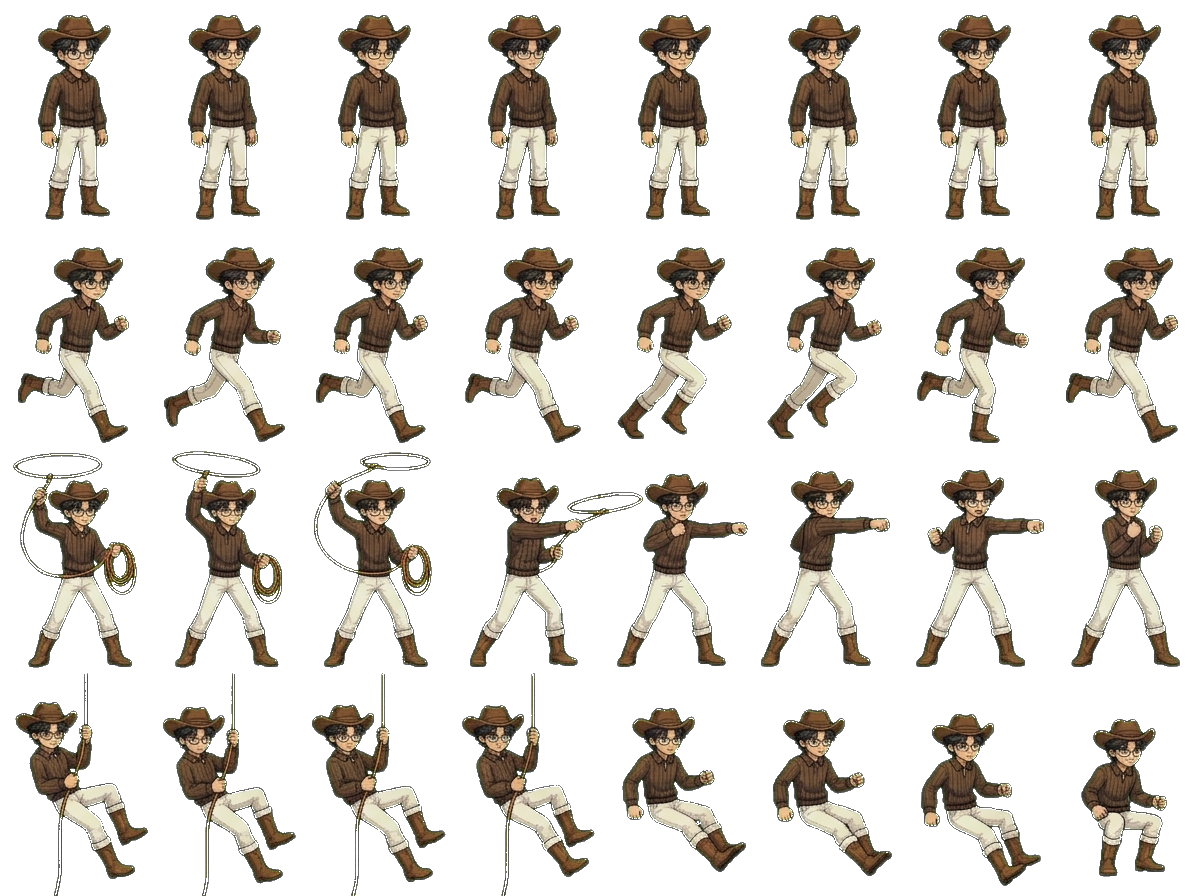
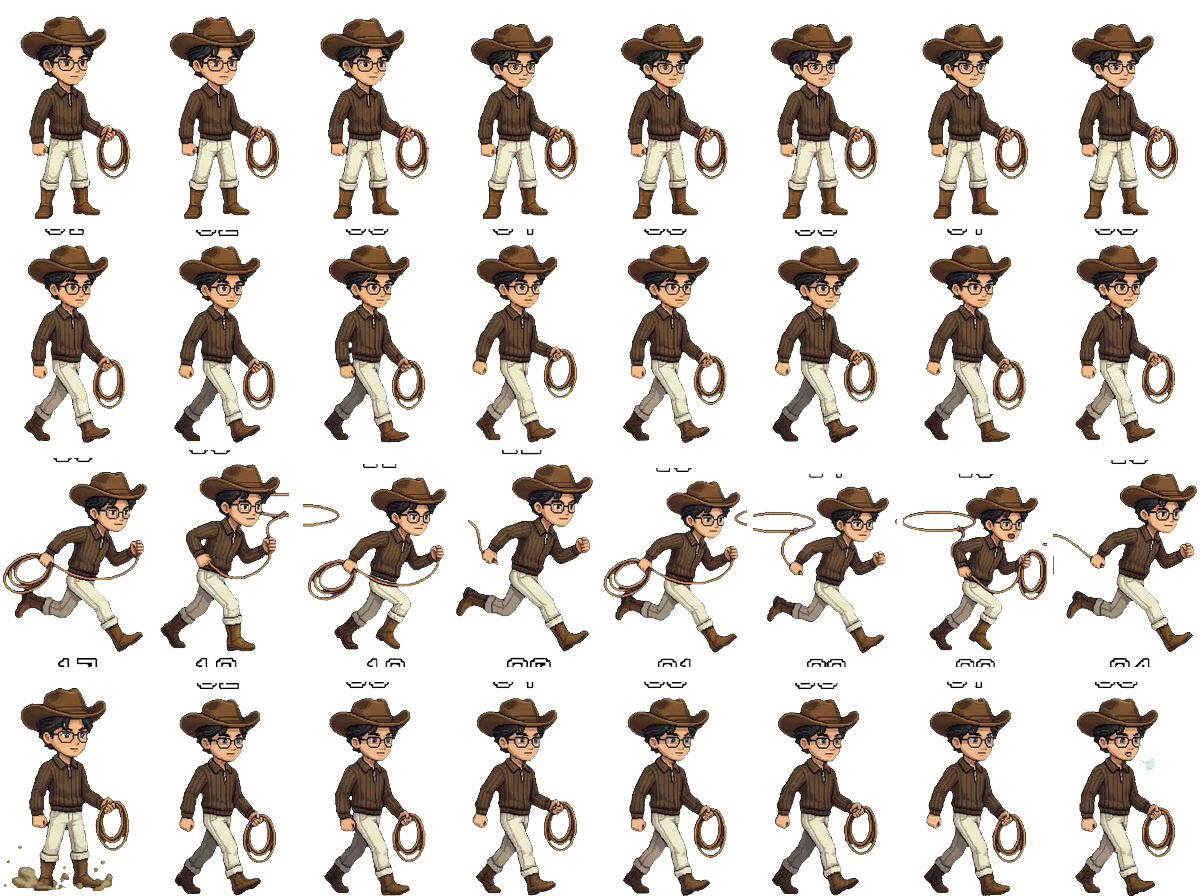
feat(adif): integrate revamped high-res spritesheets for idle, walk, run, combat and tower rappel

diff --git a/src/components/GameCanvas.tsx b/src/components/GameCanvas.tsx
@@ -157,6 +157,7 @@ export const GameCanvas: React.FC<GameCanvasProps> = ({
     monsterMaster: HTMLImageElement | null;
     towerListrik: HTMLImageElement | null;
     adifMaster: HTMLImageElement | null;
+    adifCombat: HTMLImageElement | null;
     hairiMaster: HTMLImageElement | null;
   }>({
     bg: null,
@@ -174,6 +175,7 @@ export const GameCanvas: React.FC<GameCanvasProps> = ({
     monsterMaster: null,
     towerListrik: null,
     adifMaster: null,
+    adifCombat: null,
     hairiMaster: null,
   });
 
@@ -185,7 +187,8 @@ export const GameCanvas: React.FC<GameCanvasProps> = ({
     y: number;
     vx: number;
     facingLeft: boolean;
-    state: "climb" | "rappel" | "idle" | "run" | "combat" | "defeated";
+    state: "climb" | "rappel" | "idle" | "walk" | "run" | "combat" | "defeated";
+    combatType?: "stance" | "whip" | "punch";
     animFrame: number;
     animTimer: number;
     hp: number;
@@ -207,6 +210,7 @@ export const GameCanvas: React.FC<GameCanvasProps> = ({
     vx: 0,
     facingLeft: true,
     state: "climb",
+    combatType: "stance",
     animFrame: 0,
     animTimer: 0,
     hp: 300,
@@ -433,9 +437,10 @@ export const GameCanvas: React.FC<GameCanvasProps> = ({
       loadImage("/monster_master_sheet.png"),
       loadImage("/tower_listrik.png"),
       loadImage("/adif_master_sheet.png"),
+      loadImage("/adif_combat_sheet.png"),
       loadImage("/hairi_master_sheet.png"),
-    ]).then(([bg, props, micro, jihanSheet, jihanMaster, jihanCombat, gerobak24, daniSheet, daniMaster, daniCombat, panciProp, cauldronEmergence, monsterMaster, towerListrik, adifMaster, hairiMaster]) => {
-      imagesRef.current = { bg, props, micro, jihanSheet, jihanMaster, jihanCombat, gerobak24, daniSheet, daniMaster, daniCombat, panciProp, cauldronEmergence, monsterMaster, towerListrik, adifMaster, hairiMaster };
+    ]).then(([bg, props, micro, jihanSheet, jihanMaster, jihanCombat, gerobak24, daniSheet, daniMaster, daniCombat, panciProp, cauldronEmergence, monsterMaster, towerListrik, adifMaster, adifCombat, hairiMaster]) => {
+      imagesRef.current = { bg, props, micro, jihanSheet, jihanMaster, jihanCombat, gerobak24, daniSheet, daniMaster, daniCombat, panciProp, cauldronEmergence, monsterMaster, towerListrik, adifMaster, adifCombat, hairiMaster };
     });
   }, []);
 
@@ -1043,6 +1048,7 @@ export const GameCanvas: React.FC<GameCanvasProps> = ({
           if (dist >= 75 && dist <= 180 && adifState.attackCooldown <= 0) {
             // Mid-Range Cowboy Lasso Whip Attack
             adifState.state = "combat";
+            adifState.combatType = "whip";
             if (adifState.animTimer % 4 === 0) {
               adifState.animFrame++;
               if (adifState.animFrame === 4) {
@@ -1084,12 +1090,14 @@ export const GameCanvas: React.FC<GameCanvasProps> = ({
               }
               if (adifState.animFrame >= 8) {
                 adifState.animFrame = 0;
+                adifState.combatType = "stance";
                 adifState.attackCooldown = 75;
               }
             }
           } else if (dist < 75 && adifState.attackCooldown <= 0) {
             // Close-Range Knuckle Rush Combo
             adifState.state = "combat";
+            adifState.combatType = "punch";
             if (adifState.animTimer % 4 === 0) {
               adifState.animFrame++;
               if (adifState.animFrame === 5) {
@@ -1127,16 +1135,25 @@ export const GameCanvas: React.FC<GameCanvasProps> = ({
                 adifState.vx = adifState.facingLeft ? 4.2 : -4.2;
                 adifState.evasionTimer = 10;
                 adifState.animFrame = 0;
+                adifState.combatType = "stance";
                 adifState.attackCooldown = 65;
               }
             }
-          } else if (dist > 180 && dist < 650) {
+          } else if (dist > 180 && dist <= 330) {
+            adifState.state = "walk";
+            adifState.combatType = "stance";
+            adifState.vx = adifState.facingLeft ? -1.3 : 1.3;
+            adifState.x += adifState.vx;
+            if (adifState.animTimer % 5 === 0) adifState.animFrame = (adifState.animFrame + 1) % 8;
+          } else if (dist > 330 && dist < 650) {
             adifState.state = "run";
-            adifState.vx = adifState.facingLeft ? -1.6 : 1.6;
+            adifState.combatType = "stance";
+            adifState.vx = adifState.facingLeft ? -2.2 : 2.2;
             adifState.x += adifState.vx;
             if (adifState.animTimer % 4 === 0) adifState.animFrame = (adifState.animFrame + 1) % 8;
           } else {
             adifState.state = "idle";
+            adifState.combatType = "stance";
             if (adifState.animTimer % 6 === 0) adifState.animFrame = (adifState.animFrame + 1) % 8;
           }
 
@@ -1459,6 +1476,7 @@ export const GameCanvas: React.FC<GameCanvasProps> = ({
         monsterMaster: monsterMasterImg,
         towerListrik: towerListrikImg,
         adifMaster: adifMasterImg,
+        adifCombat: adifCombatImg,
         hairiMaster: hairiMasterImg,
       } = imagesRef.current;
 
@@ -1775,8 +1793,9 @@ export const GameCanvas: React.FC<GameCanvasProps> = ({
             ctx.stroke();
             ctx.restore();
 
-            // Adif rappelling down on rope (Row 3)
-            const sx = (adifState.animFrame % 8) * frameW;
+            // Adif rappelling down on rope (Row 3, frames 1..7)
+            const rappelFrame = 1 + (adifState.animFrame % 7);
+            const sx = rappelFrame * frameW;
             const sy = 3 * frameH;
             const drawX = towerScreenX - destW / 2 - 5;
             const drawY = adifState.y - destH * (219 / 224);
@@ -1789,18 +1808,38 @@ export const GameCanvas: React.FC<GameCanvasProps> = ({
           }
         } else {
           // Adif on Ground
+          let activeSheet = adifMasterImg;
           let aRow = 0;
+          let aCol = adifState.animFrame % 8;
+
           if (duelState.inCombat && !duelState.isDefeated) {
-            aRow = 2; // Combat with lasso & punch
+            if (adifCombatImg) {
+              activeSheet = adifCombatImg;
+              if (adifState.combatType === "whip") {
+                aRow = 1; // Whip attack
+              } else if (adifState.combatType === "punch") {
+                aRow = 2; // Punch rush
+              } else {
+                aRow = 0; // Overhead lasso spin & stance
+              }
+            } else {
+              aRow = 2;
+            }
           } else if (adifState.state === "run") {
-            aRow = 1; // Run
+            aRow = 2; // Run
+          } else if (adifState.state === "walk") {
+            aRow = 1; // Walk
           } else if (adifState.state === "defeated") {
-            aRow = 3; // Friendly salute
+            if (adifCombatImg) {
+              activeSheet = adifCombatImg;
+              aRow = 3; // Friendly dismount / salute
+            } else {
+              aRow = 0;
+            }
           } else {
-            aRow = 0; // Idle (no weapons)
+            aRow = 0; // Idle
           }
 
-          const aCol = adifState.animFrame % 8;
           const sx = aCol * frameW;
           const sy = aRow * frameH;
           const drawY = adifState.y + 18 - destH * (219 / 224);
@@ -1817,8 +1856,8 @@ export const GameCanvas: React.FC<GameCanvasProps> = ({
             ctx.filter = "brightness(2.2)";
           }
 
-          // Overhead Spinning Lasso Loop (Frames 0-3 in Combat)
-          if (duelState.inCombat && !duelState.isDefeated && aRow === 2 && aCol <= 3) {
+          // Overhead Spinning Lasso Loop (in combat stance)
+          if (duelState.inCombat && !duelState.isDefeated && aRow === 0 && activeSheet === adifCombatImg) {
             ctx.save();
             ctx.strokeStyle = "#fbbf24";
             ctx.lineWidth = 2.5;
@@ -1833,9 +1872,9 @@ export const GameCanvas: React.FC<GameCanvasProps> = ({
           if (adifState.facingLeft) {
             ctx.translate(aScreenX, 0);
             ctx.scale(-1, 1);
-            ctx.drawImage(adifMasterImg, sx, sy, frameW, frameH, -destW / 2, drawY, destW, destH);
+            ctx.drawImage(activeSheet, sx, sy, frameW, frameH, -destW / 2, drawY, destW, destH);
           } else {
-            ctx.drawImage(adifMasterImg, sx, sy, frameW, frameH, aScreenX - destW / 2, drawY, destW, destH);
+            ctx.drawImage(activeSheet, sx, sy, frameW, frameH, aScreenX - destW / 2, drawY, destW, destH);
           }
           ctx.restore();
 
